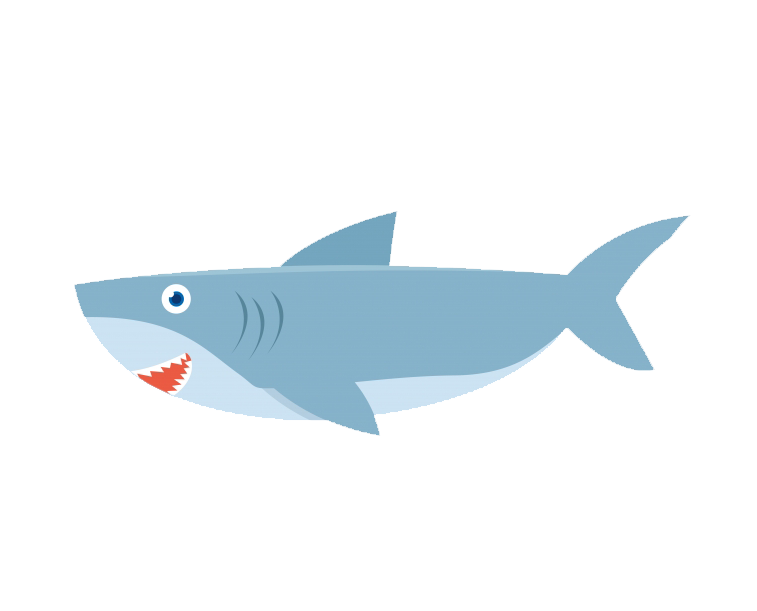
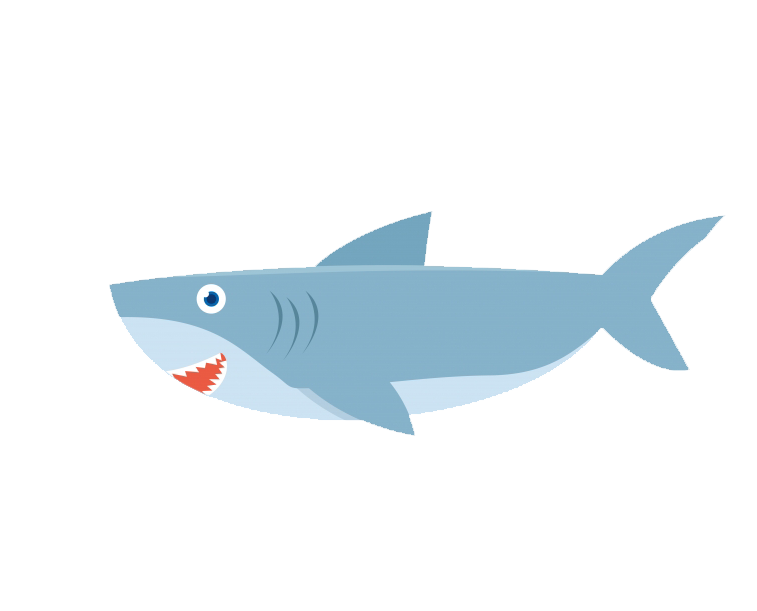
added images instead
when left arrow is clicked, shark faces left side and opposite for right

Changed region(s): [[0.0911, 0.3421, 0.9723, 0.7152], [0.3646, 0.3421, 0.5773, 0.4664]]

diff --git a/Projects/Project1/js/script.js b/Projects/Project1/js/script.js
@@ -54,9 +54,22 @@ let preyEaten = 0;
 //Noise variables
 let preyTX;
 let preyTY;
-
+//initial state of the game
 let state = "Menu";
+//images
+let playerLeftImg;
+let playerRightImg;
+let playerImg;
+let preyImg;
 
+//preload the images and sounds
+function preload(){
+
+  //images
+  playerLeftImg = loadImage("assets/images/leftShark.png");
+  playerRightImg = loadImage("assets/images/rightShark.png");
+  preyImg = loadImage("assets/images/fish.png");
+}
 // setup()
 //
 // Sets up the basic elements of the game
@@ -64,7 +77,8 @@ function setup() {
   createCanvas(500, 500);
 
   noStroke();
-
+  //initiating the player image to the left shark
+  playerImg = playerLeftImg;
   // We're using simple functions to separate code out
   setupPrey();
   setupPlayer();
@@ -147,9 +161,11 @@ function handleInput() {
   // Check for horizontal movement
   if (keyIsDown(LEFT_ARROW)) {
     playerVX = -playerSpeed;
+    playerImg = playerLeftImg;
     //sprint(playerVX,(-1));
   } else if (keyIsDown(RIGHT_ARROW)) {
     playerVX = playerSpeed;
+    playerImg = playerRightImg;
     //  sprint(playerVX,(1));
   } else {
     playerVX = 0;
@@ -299,16 +315,18 @@ function movePrey() {
 //
 // Draw the prey as an ellipse with alpha based on health
 function drawPrey() {
-  fill(preyFill, preyHealth);
-  ellipse(preyX, preyY, preyRadius * 2);
+//  fill(preyFill, preyHealth);
+  //ellipse(preyX, preyY, preyRadius * 2);
+  image(preyImg,preyX,preyY,preyRadius*2,preyRadius*2);
 }
 
 // drawPlayer()
 //
 // Draw the player as an ellipse with alpha value based on health
 function drawPlayer() {
-  fill(playerFill, playerHealth);
-  ellipse(playerX, playerY, playerRadius * 2);
+  //fill(playerFill, playerHealth);
+  //ellipse(playerX, playerY, playerRadius * 2);
+  image(playerImg,playerX,playerY,playerRadius*3,playerRadius*3);
 }
 
 // showGameOver()
